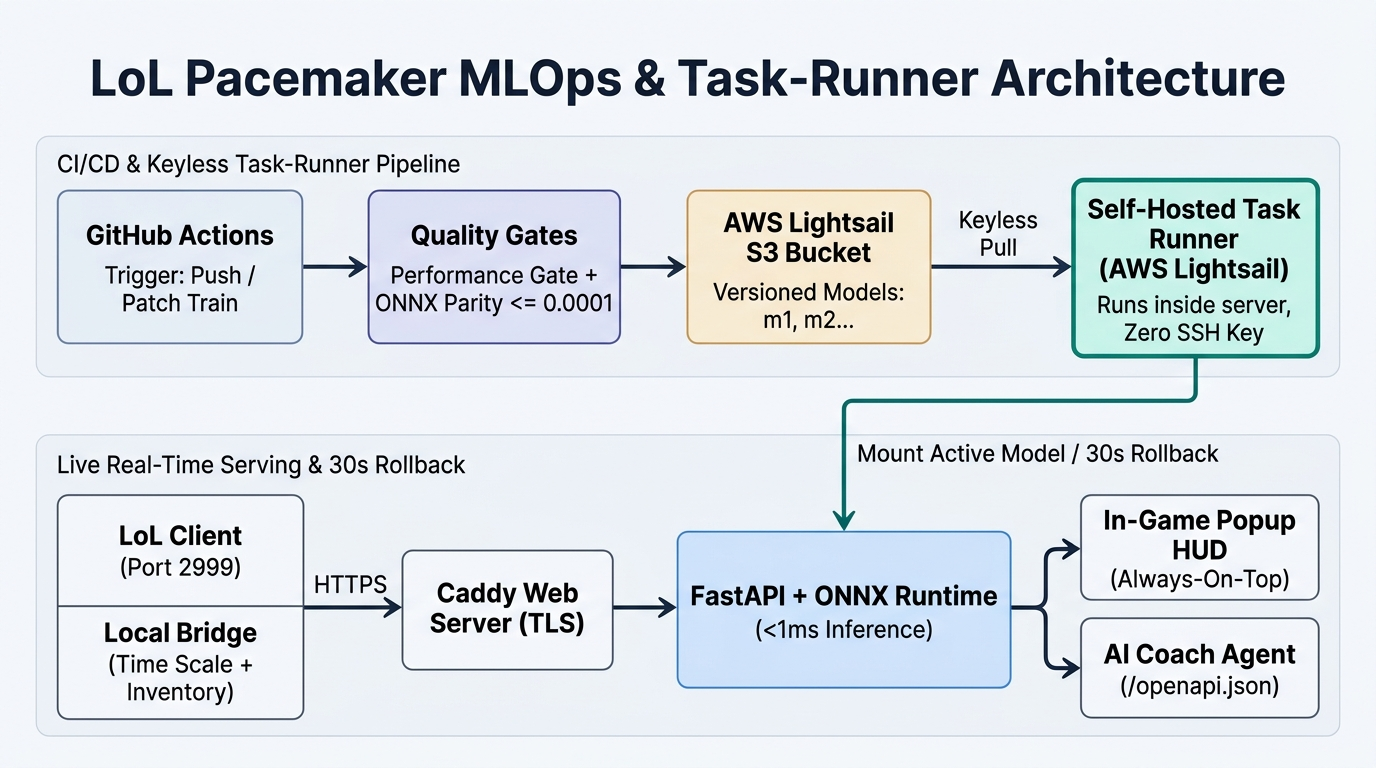
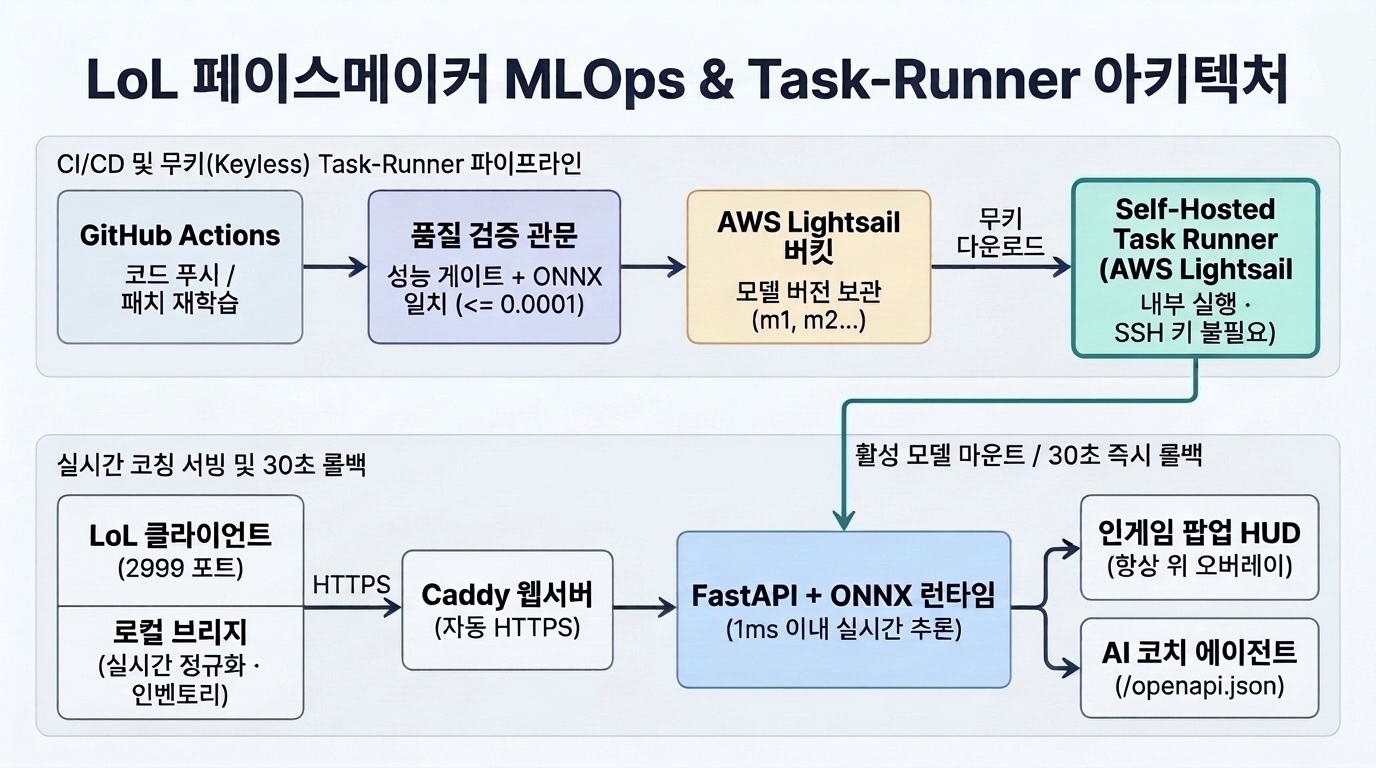
docs: replace plan diagrams with Korean Task-Runner architecture & real Korean /overlay screenshot

diff --git a/계획서.md b/계획서.md
@@ -34,7 +34,7 @@
 
 초보자는 웹 브라우저를 따로 열어 긴 글을 읽거나 상점에서 아이템 이름을 검색할 여유가 없다. 따라서 OP.GG 데스크톱 앱처럼 **인게임 화면 우측 상단에 항상 떠 있는 컴팩트 팝업(오버레이 HUD)**으로 연결하고, **지금 당장 사야 할 아이템과 찍어야 할 스킬에 빛나는 강조 테두리 이펙트**를 씌워 글자를 읽지 않고도 바로 따라 하게 한다.
 
-![인게임 팝업 오버레이 HUD 및 추천 강조 테두리 이펙트 개념도](docs/images/overlay_hud_concept.jpg)
+![인게임 팝업 오버레이 HUD 및 추천 강조 테두리 이펙트 실제 화면](docs/images/overlay_hud_concept.png)
 
 ```mermaid
 %%{init: {'theme': 'base', 'themeVariables': {'primaryColor': '#1E293B', 'primaryTextColor': '#F8FAFC', 'primaryBorderColor': '#38BDF8', 'lineColor': '#38BDF8', 'secondaryColor': '#0F172A', 'tertiaryColor': '#0F172A', 'edgeLabelBackground': '#0F172A', 'fontSize': '15px'}}}%%
